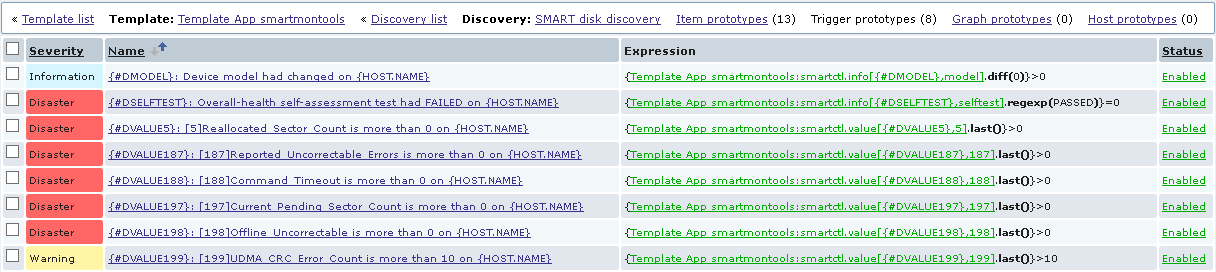
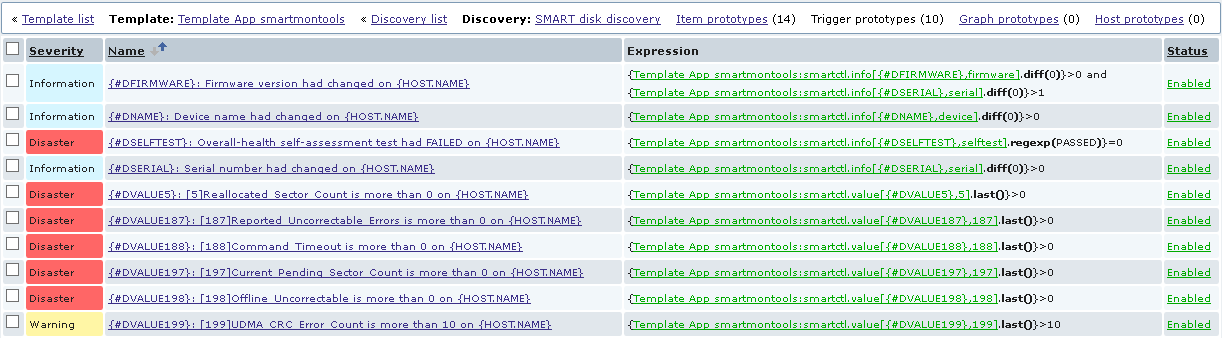
ver 1.3: - Configuration validity checks - There is no need to specify hostname mode anymore - Communication through pipes instead of arguments - Long sleep now works (but its always 0 for windows) - Some bugs were fixed, more compatible configuration overall - Triggers severity correction

diff --git a/scripts/smartctl-lld.py b/scripts/smartctl-lld.py
@@ -3,17 +3,19 @@
 ## Installation instructions: https://github.com/nobodysu/zabbix-smartmontools
 
 mode = 'device'   # 'device' or 'serial' as primary identifier in zabbix item's name
-hostnameFrom = 'config'   # 'config', 'fqdn' or 'shortname'. 'config' is faster, but can't work when 'Hostname' is not specified in agent config.
+
+ctlPath = 'smartctl'
+#ctlPath = r'"C:\Program Files\smartmontools\bin\smartctl.exe"'   # if smartctl isn't in PATH
 
 # path to second send script
 senderPyPath = r'/etc/zabbix/scripts/smartctl-send.py'               # Linux
 #senderPyPath = r'C:\zabbix-agent\scripts\smartctl-send.py'          # Win
 #senderPyPath = r'/usr/local/etc/zabbix/scripts/smartctl-send.py'    # BSD
 
-# provide raid configuration if needed
-raidOverride = []
+# manually provide disk list or RAID configuration if needed
+diskListManual = []
 # like this:
-#raidOverride = ['sda -d sat+megaraid,4', 'sda -d sat+megaraid,5']
+#diskListManual = ['sda -d sat+megaraid,4', 'sda -d sat+megaraid,5']
 # more info: https://www.smartmontools.org/wiki/Supported_RAID-Controllers
 
 ## End of configuration ##
@@ -23,39 +25,41 @@ import subprocess
 import re
 import json
 
-if hostnameFrom == 'fqdn':
-    import socket
-    hostname = socket.getfqdn()
-elif hostnameFrom == 'shortname':
-    import socket
-    hostname = socket.gethostname()
-else:
-    hostname = '-'
+hostname = '"' + sys.argv[2] + '"'
 
 jsonData = []
 senderData = []
+allDisksStdout = ''
+ctlOut = ''
 
-if not raidOverride:   # if RAID is not defined
-    allDisksStdout = subprocess.getoutput('smartctl --scan')   # scan the disks
+stopChars = [(' -d', ''), (',', ''), ('[', ' '), (']', ' '), ('+', '_'), ('  ', ' '), ('/', '_'), ('~', '_'), ('`', '_'), ('@', '_'), ('#', '_'), ('$', '_'), ('%', '_'), ('^', '_'), ('&', '_'), ('*', '_'), ('(', '_'), (')', '_'), ('{', '_'), ('}', '_'), ('=', '_'), (':', '_'), (';', '_'), ('"', '_'), ('?', '_'), ('<', '_'), ('>', '_'), (' ', '_')]
+
+def replace_all(string, stopChars):
+    for i, j in stopChars:
+        string = string.replace(i, j)
+    return string
+
+if not diskListManual:   # if manual list is not provided
+    allDisksStdout = subprocess.getoutput(ctlPath + ' --scan')   # scan the disks
     diskListRe = re.findall(r'^/dev/(\w+)', allDisksStdout, re.M)   # and determine short device names
 else:
-    diskListRe = raidOverride   # or just use manually provided settings
+    diskListRe = diskListManual   # or just use manually provided settings
 
 for d in diskListRe:   # loop through all found drives
-    ctlOut = subprocess.getoutput('smartctl -a /dev/' + d)
+    ctlOut = subprocess.getoutput(ctlPath + ' -a /dev/' + d)
 
-    if raidOverride:
-        d = d.replace(',', '').replace(' -d', '').replace('[', '').replace(']', '').replace('+', '_').replace('  ', ' ').replace(' ', '_')  # slightly sanitize the item key. for RAID only
+    if diskListManual:
+        d = replace_all(d, stopChars)   # sanitize the item key
         # ! 'd' is statically assigned !
     #print('disk:                         ', d)
 
-    deviceName = d   # save device name before mode selection and after RAID substitution
+    deviceName = d   # save device name before mode selection and after manual substitution
 
     serialRe = re.search(r'^Serial Number:\s+(.+)$', ctlOut, re.M | re.I)
     #print(d + ': serialRe.group(1):      ' + serialRe.group(1))
     if serialRe:
         if mode == 'serial':
-            d = serialRe.group(1).replace(',', '').replace('[', '').replace(']', '').replace('+', '_').replace('  ', ' ').replace(' ', '_')   # in 'serial' mode, if serial number is found it will be used as main identifier, also sanitize it
+            d = replace_all(serialRe.group(1), stopChars)   # in 'serial' mode, if serial number is found it will be used as main identifier, also sanitize it
             # ! 'd' becomes serial !
 
         jsonData.append({'{#DSERIAL}':d})
@@ -115,9 +119,19 @@ for d in diskListRe:   # loop through all found drives
 
         senderData.append(hostname + ' smartctl.value[' + d + ',' + v[0] + '] ' + v[2])
 
-print(json.dumps({"data": jsonData}, indent=4))   # print data gathered for LLD
+if senderData:
+    senderData.append(hostname + ' smartctl.info[ConfigStatus] "OK"')   # signals that client host is configured
+else:
+    if ctlOut.find('ermission denied') != -1 or ctlOut.find('missing admin rights') != -1:
+        senderData.append(hostname + ' smartctl.info[ConfigStatus] "MISSINGRIGHTS"')
+    elif allDisksStdout.find('smartctl: not found') != -1 or allDisksStdout.find('\"smartctl\" ') != -1:
+        senderData.append(hostname + ' smartctl.info[ConfigStatus] "NOCMD"')
+    elif not diskListRe:
+        senderData.append(hostname + ' smartctl.info[ConfigStatus] "NODISKS"')   # if no disks were found
+    else:
+        senderData.append(hostname + ' smartctl.info[ConfigStatus] "ERROR"')   # something went wrong
 
-senderDataNStr = '\n'.join(senderData)   # items for zabbix sender separated by newlines
+senderDataNStr = '\n'.join(senderData)   # items for zabbix sender separated by system-specific newlines
 
 if sys.platform != 'win32':   # if not windows
     cmd = 'python3'
@@ -126,9 +140,20 @@ else:
 
 # pass senderDataNStr to smartctl-send.py:
 if sys.argv[1] == 'get':
-    subprocess.Popen([cmd, senderPyPath, 'get', senderDataNStr], stdout=subprocess.PIPE, stderr=subprocess.PIPE, stdin=subprocess.PIPE)   # spawn new process and regain shell control immediately (only *nix atm, windows waits)
-elif sys.argv[1] == '-v':
-    subprocess.Popen([cmd, senderPyPath, '-v', senderDataNStr])   # do not detach if in verbose mode, also skips timeout in smartctl-send.py
+    print(json.dumps({"data": jsonData}, indent=4))   # print data gathered for LLD
+
+    senderPy = subprocess.Popen([cmd, senderPyPath, 'get'], stdin=subprocess.PIPE, stdout=subprocess.DEVNULL, stderr=subprocess.DEVNULL, universal_newlines=True)   # spawn new process and regain shell control immediately
+    try:
+        senderPy.communicate(input=senderDataNStr, timeout=1)
+    except:
+        pass
+elif sys.argv[1] == 'getverb':
+    senderPy = subprocess.Popen([cmd, senderPyPath, 'getverb'], stdin=subprocess.PIPE, universal_newlines=True)   # do not detach if in verbose mode, also skips timeout in smartctl-send.py
+    try:
+        senderPy.communicate(input=senderDataNStr)
+    except:
+        pass
 else:
-    print(sys.argv[0] + " : Not supported. Use 'get' or '-v'.")
+    print(sys.argv[0] + " : Not supported. Use 'get' or 'getverb'.")
     sys.exit(1)
+

diff --git a/scripts/smartctl-send.py b/scripts/smartctl-send.py
@@ -7,10 +7,10 @@ agentConf = r'/etc/zabbix/zabbix_agentd.conf'                   # Linux
 #agentConf = r'C:\zabbix_agentd.conf'                           # Win
 #agentConf = r'/usr/local/etc/zabbix24/zabbix_agentd.conf'      # BSD
 
-senderPath = r'zabbix_sender'                                   # Linux, BSD
+senderPath = 'zabbix_sender'                                   # Linux, BSD
 #senderPath = r'C:\zabbix-agent\bin\win32\zabbix_sender.exe'    # Win
 
-timeout = 3   # how long the script must wait between LLD and sending, increase if data received late
+timeout = 60   # how long the script must wait between LLD and sending, increase if data received late (does not affect windows)
 
 ## End of configuration ##
 
@@ -18,18 +18,22 @@ import sys
 import subprocess
 from time import sleep
 
-senderDataNStr = sys.argv[2]
+stdin4Sender = sys.stdin.read()
+
+if sys.platform == 'win32':   # if windows
+    timeout = 0   # probably permanent workaround
 
 if sys.argv[1] == 'get':
     sleep(timeout)   # wait for LLD to be processed by server
-    senderProc = subprocess.Popen([senderPath, '-c', agentConf, '-i', '-'], stdin=subprocess.PIPE, stdout=subprocess.DEVNULL, universal_newlines=True)   # send data gathered from second argument to zabbix server
-elif sys.argv[1] == '-v':
-    print('\n  Data sent to zabbix sender:\n' + senderDataNStr)
-    sys.stdout.flush()   # print before proc results
-    senderProc = subprocess.Popen([senderPath, '-v', '-c', agentConf, '-i', '-'], stdin=subprocess.PIPE, universal_newlines=True)   # verbose sender output
+    senderProc = subprocess.Popen([senderPath, '-c', agentConf, '-i', '-'],  stdin=subprocess.PIPE, stdout=subprocess.DEVNULL, stderr=subprocess.DEVNULL, universal_newlines=True)   # send data gathered from second argument to zabbix server
+elif sys.argv[1] == 'getverb':
     print('\n  Note: the sender will fail if server did not gather LLD previously.')
+    print('\n  Data sent to zabbix sender:\n')
+    print(stdin4Sender)
+    senderProc = subprocess.Popen([senderPath, '-vv', '-c', agentConf, '-i', '-'], stdin=subprocess.PIPE, universal_newlines=True)   # verbose sender output
 else:
-    print(sys.argv[0] + " : Not supported. Use 'get' or '-v'.")
+    print(sys.argv[0] + " : Not supported. Use 'get' or 'getverb'.")
     sys.exit(1)
 
-senderProc.communicate(input=senderDataNStr)
+senderProc.communicate(input=stdin4Sender)
+
